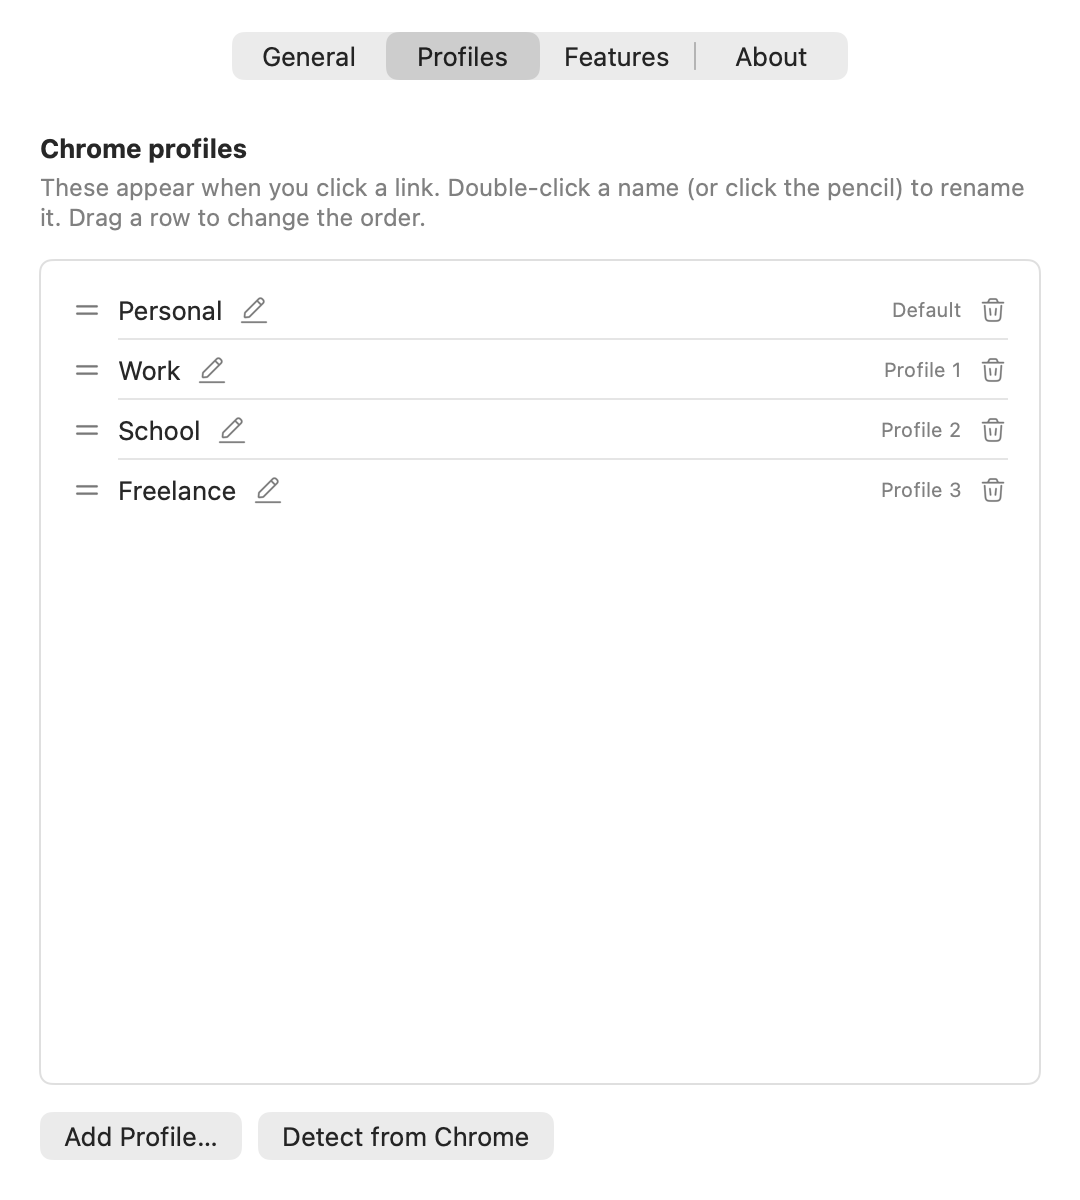
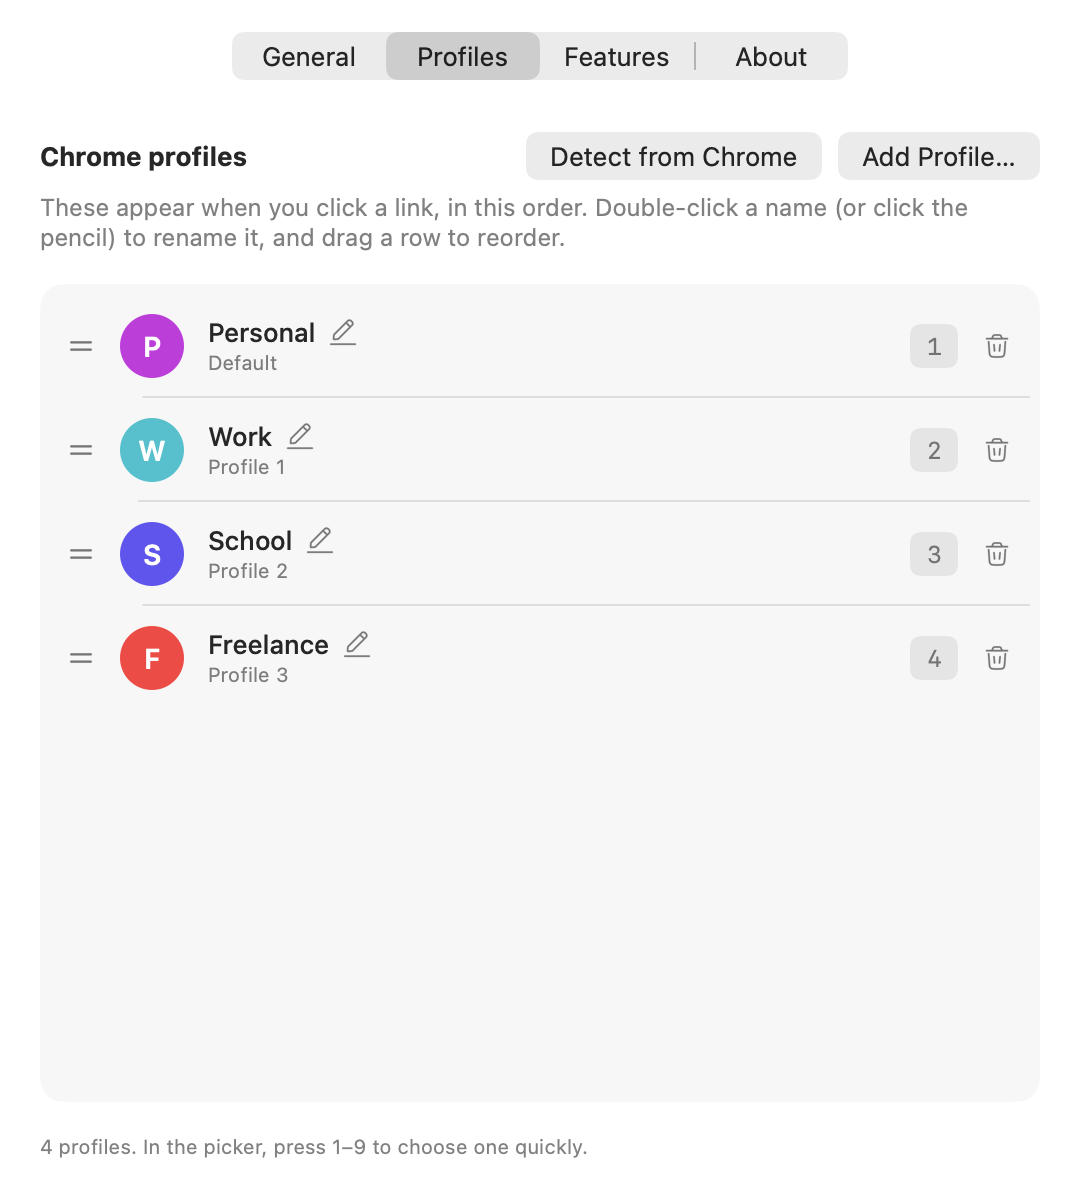
Redesign the Profiles tab to match the other tabs
Card layout, coloured initial avatars, name with directory caption, a
shortcut-number badge per row, a full-width header with prominent Add
Profile button, and a clearer empty state. The list's opaque background
is cleared so it matches the grey cards. Avatar helpers are tested.

diff --git a/Sources/ProfilesTab.swift b/Sources/ProfilesTab.swift
@@ -15,72 +15,115 @@ func icon(_ name: String, fallback: String) -> Image {
     return Image(systemName: fallback)
 }
 
+// MARK: - Avatar
+
+private let avatarPalette: [Color] = [
+    Color(nsColor: .systemBlue), Color(nsColor: .systemGreen), Color(nsColor: .systemOrange), Color(nsColor: .systemPurple),
+    Color(nsColor: .systemPink), Color(nsColor: .systemTeal), Color(nsColor: .systemIndigo), Color(nsColor: .systemRed),
+]
+
+/// A round, coloured badge with the profile's initial, like Chrome's own profile avatars.
+private struct ProfileAvatar: View {
+    let name: String
+    let seed: String
+
+    var body: some View {
+        ZStack {
+            Circle().fill(avatarPalette[avatarPaletteIndex(for: seed, count: avatarPalette.count)])
+            Text(profileInitial(name))
+                .font(.system(size: 14, weight: .semibold))
+                .foregroundColor(.white)
+        }
+        .frame(width: 32, height: 32)
+        .accessibilityHidden(true)
+    }
+}
+
+// MARK: - Transparent list background
+
+/// SwiftUI's List draws an opaque white background on the macOS versions this app supports, which
+/// clashes with the grey cards used on the other tabs. This clears it so the card shows through.
+private struct ClearListBackground: NSViewRepresentable {
+    func makeNSView(context: Context) -> NSView { NSView() }
+
+    func updateNSView(_ view: NSView, context: Context) {
+        // The list's views may not exist yet on the first pass, so try a few times.
+        for delay in [0.0, 0.15, 0.5] {
+            DispatchQueue.main.asyncAfter(deadline: .now() + delay) { clear(from: view) }
+        }
+    }
+
+    private func clear(from view: NSView) {
+        var ancestor: NSView? = view.superview
+        while let current = ancestor {
+            if let scrollView = firstScrollView(in: current) {
+                scrollView.drawsBackground = false
+                scrollView.backgroundColor = .clear
+                scrollView.contentView.drawsBackground = false
+                scrollView.wantsLayer = true
+                scrollView.layer?.backgroundColor = NSColor.clear.cgColor
+                if let table = scrollView.documentView as? NSTableView {
+                    table.backgroundColor = .clear
+                    table.usesAlternatingRowBackgroundColors = false
+                }
+                return
+            }
+            ancestor = current.superview
+        }
+    }
+
+    private func firstScrollView(in root: NSView) -> NSScrollView? {
+        if let scroll = root as? NSScrollView { return scroll }
+        for child in root.subviews { if let found = firstScrollView(in: child) { return found } }
+        return nil
+    }
+}
+
 // MARK: - Tab
 
 struct ProfilesTab: View {
     @ObservedObject var store: SettingsStore
 
     var body: some View {
-        VStack(alignment: .leading, spacing: 14) {
-            VStack(alignment: .leading, spacing: 4) {
-                Text("Chrome profiles").font(.headline)
-                Text("These appear when you click a link. Double-click a name (or click the pencil) to rename it. Drag a row to change the order.")
+        VStack(alignment: .leading, spacing: 16) {
+            VStack(alignment: .leading, spacing: 6) {
+                HStack(spacing: 8) {
+                    Text("Chrome profiles").font(.headline)
+                    Spacer()
+                    Button("Detect from Chrome", action: detect)
+                    Button("Add Profile…") { addProfile() }
+                        .buttonStyle(.borderedProminent)
+                }
+                Text("These appear when you click a link, in this order. Double-click a name (or click the pencil) to rename it, and drag a row to reorder.")
                     .font(.callout).foregroundColor(.secondary)
                     .fixedSize(horizontal: false, vertical: true)
             }
 
-            ZStack {
-                List(selection: $store.selection) {
-                    ForEach($store.list.items) { $profile in
-                        HStack(spacing: 8) {
-                            icon("drag", fallback: "line.3.horizontal")
-                                .foregroundColor(.secondary)
-                                .help("Drag to reorder")
-                            if store.editingID == profile.id {
-                                RenameField(text: $profile.name) { store.editingID = nil }
-                            } else {
-                                Text(profile.name)
-                                    .help("Double-click to rename")
-                                    .simultaneousGesture(TapGesture(count: 2).onEnded { store.editingID = profile.id })
-                                Button { store.editingID = profile.id } label: { icon("edit", fallback: "pencil") }
-                                    .buttonStyle(.borderless)
-                                    .foregroundColor(.secondary)
-                                    .help("Rename")
-                                    .accessibilityLabel("Rename \(profile.name)")
-                            }
-                            Spacer()
-                            Text(profile.dir).font(.caption).foregroundColor(.secondary)
-                            Button { confirmRemoval(of: [profile.id]) } label: { icon("delete", fallback: "trash") }
-                                .buttonStyle(.borderless)
-                                .foregroundColor(.secondary)
-                                .help("Remove \(profile.name)")
-                                .accessibilityLabel("Remove \(profile.name)")
+            GroupBox {
+                ZStack {
+                    List(selection: $store.selection) {
+                        ForEach($store.list.items) { $profile in
+                            row($profile)
                         }
-                        .padding(.vertical, 3)
+                        .onMove { store.list.move(from: $0, to: $1) }
                     }
-                    .onMove { store.list.move(from: $0, to: $1) }
-                }
-                .onDeleteCommand(perform: removeSelected)
+                    .listStyle(.plain)
+                    .background(ClearListBackground())
+                    .onDeleteCommand(perform: removeSelected)
 
-                if store.list.items.isEmpty {
-                    Text("No profiles yet.\nClick “Detect from Chrome” or “Add Profile…”.")
-                        .multilineTextAlignment(.center)
-                        .foregroundColor(.secondary)
-                        .allowsHitTesting(false)
+                    if store.list.items.isEmpty { emptyState }
                 }
+                .frame(minHeight: 240, maxHeight: .infinity)
             }
-            .frame(minHeight: 200)
-            .overlay(RoundedRectangle(cornerRadius: 6).stroke(Color.secondary.opacity(0.25)))
-
-            HStack {
-                Button("Add Profile…") { store.addModel.reset(); store.showingAdd = true }
-                Button("Detect from Chrome", action: detect)
-                Spacer()
-            }
+            .frame(maxHeight: .infinity)
 
             if let status = store.status {
                 Text(status).font(.callout).foregroundColor(.secondary)
             }
+
+            let count = store.list.items.count
+            Text(count == 0 ? "" : "\(count) profile\(count == 1 ? "" : "s"). In the picker, press 1–9 to choose one quickly.")
+                .font(.footnote).foregroundColor(.secondary)
         }
         .padding(20)
         .sheet(isPresented: $store.showingAdd) {
@@ -89,6 +132,76 @@ struct ProfilesTab: View {
                 catch { return (error as? ProfileListError)?.message ?? "Couldn't add that profile." }
             }
         }
+    }
+
+    // MARK: Rows
+
+    private func row(_ profile: Binding<Profile>) -> some View {
+        let item = profile.wrappedValue
+        let position = store.list.items.firstIndex(where: { $0.id == item.id }).map { $0 + 1 }
+        return HStack(spacing: 12) {
+            icon("drag", fallback: "line.3.horizontal")
+                .foregroundColor(.secondary)
+                .help("Drag to reorder")
+
+            ProfileAvatar(name: item.name, seed: item.dir)
+
+            VStack(alignment: .leading, spacing: 1) {
+                if store.editingID == item.id {
+                    RenameField(text: profile.name) { store.editingID = nil }
+                        .frame(maxWidth: 220)
+                } else {
+                    HStack(spacing: 6) {
+                        Text(item.name)
+                            .fontWeight(.medium)
+                            .help("Double-click to rename")
+                            .simultaneousGesture(TapGesture(count: 2).onEnded { store.editingID = item.id })
+                        Button { store.editingID = item.id } label: { icon("edit", fallback: "pencil") }
+                            .buttonStyle(.borderless)
+                            .foregroundColor(.secondary)
+                            .help("Rename")
+                            .accessibilityLabel("Rename \(item.name)")
+                    }
+                }
+                Text(item.dir).font(.caption).foregroundColor(.secondary)
+            }
+
+            Spacer()
+
+            if let position = position, position <= 9 {
+                Text("\(position)")
+                    .font(.system(.callout, design: .monospaced))
+                    .foregroundColor(.secondary)
+                    .frame(width: 24, height: 22)
+                    .background(Color.secondary.opacity(0.15))
+                    .cornerRadius(5)
+                    .help("Press \(position) in the picker to open this profile")
+                    .accessibilityLabel("Shortcut \(position)")
+            }
+
+            Button { confirmRemoval(of: [item.id]) } label: { icon("delete", fallback: "trash") }
+                .buttonStyle(.borderless)
+                .foregroundColor(.secondary)
+                .help("Remove \(item.name)")
+                .accessibilityLabel("Remove \(item.name)")
+        }
+        .padding(.vertical, 6)
+    }
+
+    private var emptyState: some View {
+        VStack(spacing: 8) {
+            Image(systemName: "person.crop.circle.badge.plus")
+                .font(.system(size: 38))
+                .foregroundColor(.secondary)
+            Text("No profiles yet").font(.headline)
+            Text("Click “Detect from Chrome” or “Add Profile…” above to get started.")
+                .font(.callout).foregroundColor(.secondary)
+        }
+    }
+
+    private func addProfile() {
+        store.addModel.reset()
+        store.showingAdd = true
     }
 
     /// Asks before removing, since there is no undo. Cancel is the default button so that

diff --git a/Tests/main.swift b/Tests/main.swift
@@ -316,6 +316,15 @@ check(!shouldShowSettingsOnLaunch(receivedLink: true, loginLaunch: false, backgr
 check(!shouldShowSettingsOnLaunch(receivedLink: false, loginLaunch: true, backgroundFlag: false), "a login launch stays quiet")
 check(!shouldShowSettingsOnLaunch(receivedLink: false, loginLaunch: false, backgroundFlag: true), "--background stays quiet")
 
+// MARK: - avatars
+
+check(profileInitial("work") == "W" && profileInitial("  quillbot") == "Q" && profileInitial("9 to 5") == "9", "avatar initial is the first letter or digit, uppercased")
+check(profileInitial("") == "?" && profileInitial("…") == "?", "avatar initial falls back to a question mark")
+check(avatarPaletteIndex(for: "Profile 3", count: 8) == avatarPaletteIndex(for: "Profile 3", count: 8), "avatar colour is stable")
+check((0..<20).allSatisfy { (0..<8).contains(avatarPaletteIndex(for: "Profile \($0)", count: 8)) }, "avatar colour index stays inside the palette")
+check(Set((0..<20).map { avatarPaletteIndex(for: "Profile \($0)", count: 8) }).count >= 4, "different profiles get a spread of colours")
+check(avatarPaletteIndex(for: "x", count: 0) == 0, "an empty palette does not crash")
+
 // MARK: - shared config helpers
 
 let storedConfig = configByStoring([profile("A", "Alpha"), profile("B", "")],

diff --git a/Sources/ProfileList.swift b/Sources/ProfileList.swift
@@ -67,3 +67,19 @@ func removalPrompt(for names: [String]) -> (title: String, message: String) {
     return ("Remove \(names.count) profiles?",
             "They will no longer appear when you click a link. You can add them back later with Add Profile… or Detect from Chrome.")
 }
+
+// MARK: - Avatars
+
+/// The letter shown in a profile's avatar: its first letter or digit, uppercased, else "?".
+func profileInitial(_ name: String) -> String {
+    guard let first = name.first(where: { $0.isLetter || $0.isNumber }) else { return "?" }
+    return String(first).uppercased()
+}
+
+/// A stable index into an avatar colour palette, derived from `seed` (a profile's directory).
+/// Swift's own `hashValue` changes between launches, so this sums the characters instead:
+/// a profile keeps the same colour every time.
+func avatarPaletteIndex(for seed: String, count: Int) -> Int {
+    guard count > 0 else { return 0 }
+    return seed.unicodeScalars.reduce(0) { ($0 &* 31 &+ Int($1.value)) % 1_000_003 } % count
+}

diff --git a/CHANGELOG.md b/CHANGELOG.md
@@ -12,6 +12,7 @@ All notable changes to this project are documented here. The format follows
 - `--background` option to start in the menu bar without opening the settings window.
 
 ### Changed
+- Redesigned the Profiles tab to match the other tabs: card layout, coloured profile avatars, a shortcut-number badge on each row, a clearer header and empty state.
 - WhichProfile now stays running in the menu bar instead of quitting after each link, and has no Dock icon.
 - Opening the app again from Spotlight or Finder shows the settings window. A start caused by a link or by login stays quiet.
 - `build.sh` stops the running copy and restarts the new one quietly.
